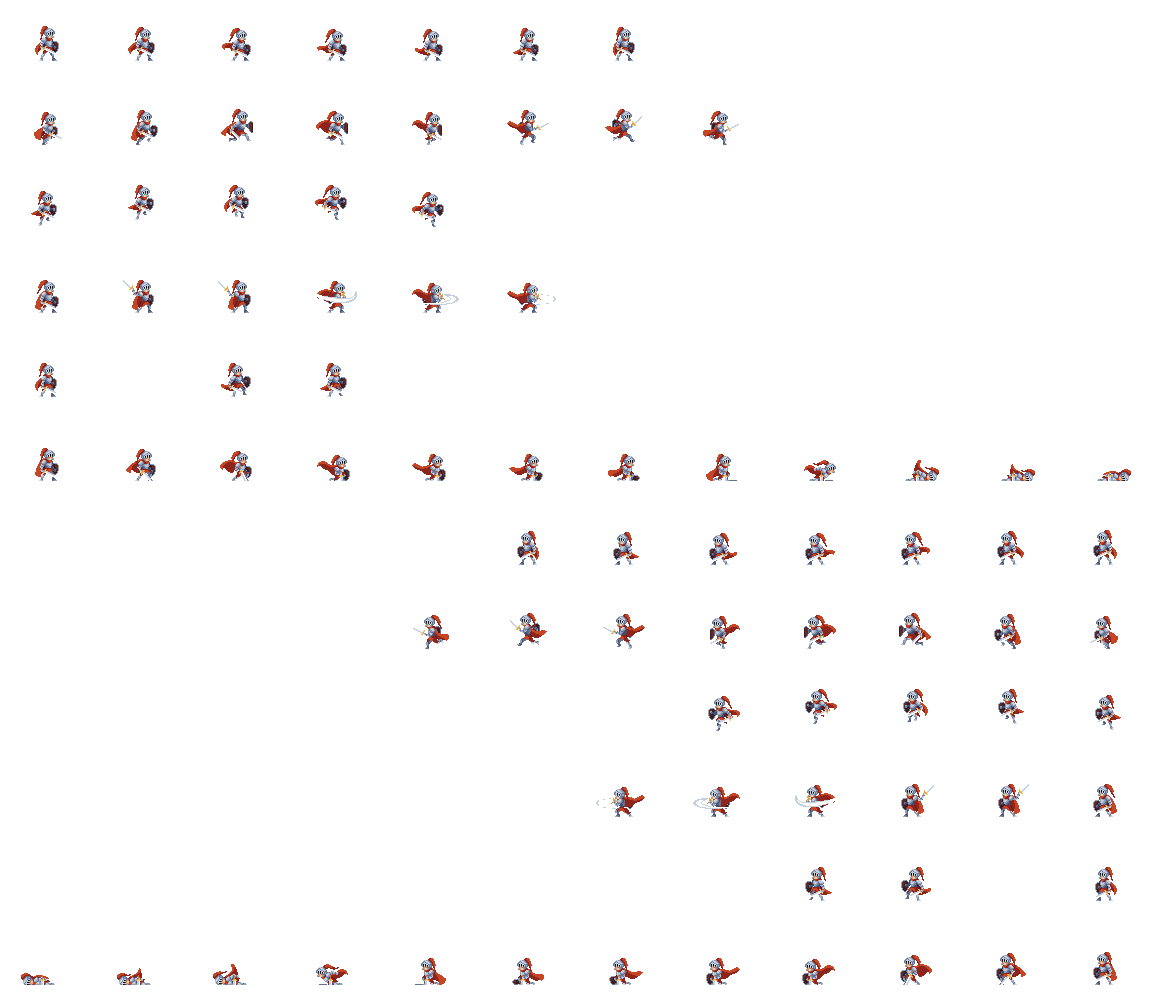
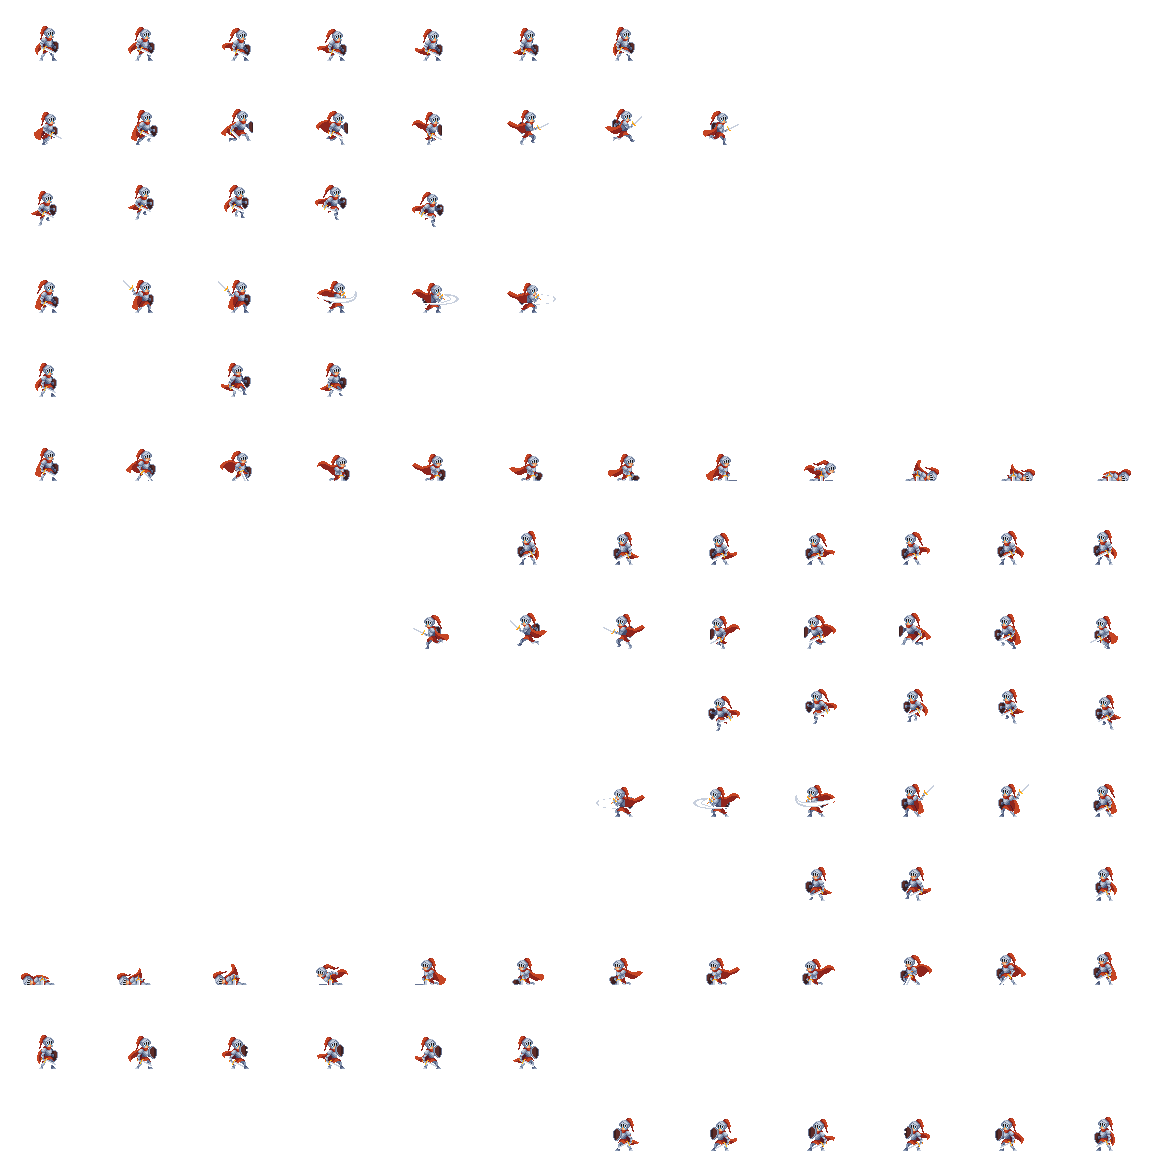
Knight guard

diff --git a/public/scripts/knight.js b/public/scripts/knight.js
@@ -14,7 +14,9 @@ const KnightPlayer = function(ctx, x, y, gameArea, obstacles, enemies) {
         hurtRight:   { x: 0,    y: 336,   width: 96, height: 84, count: 4,  timing: 100, loop: false },
         hurtLeft:    { x: 1056, y: 840,   width: -96, height: 84, count: 4,  timing: 100, loop: false },
         deathRight:  { x: 0,    y: 420,   width: 96, height: 84, count: 12, timing: 200, loop: false },
-        deathLeft:   { x: 1056, y: 924,   width: -96, height: 84, count: 12, timing: 200, loop: false }
+        deathLeft:   { x: 1056, y: 924,   width: -96, height: 84, count: 12, timing: 200, loop: false },
+        guardRight:  { x: 0,    y: 1008,   width: 96, height: 84, count: 5,  timing: 85, loop: true },
+        guardLeft:   { x: 1056, y: 1090,   width: -96, height: 84, count: 5,  timing: 85, loop: true }
     };
 
     const sprite = Sprite(ctx, x, y);
@@ -36,7 +38,7 @@ const KnightPlayer = function(ctx, x, y, gameArea, obstacles, enemies) {
     let speed = 250;
 
     const move = function(dir) {
-        if (recoverTimer == 0) {
+        if (recoverTimer == 0 && guardTimer == 0) {
             direction = dir;
             animationDirection = dir;
         }
@@ -55,6 +57,7 @@ const KnightPlayer = function(ctx, x, y, gameArea, obstacles, enemies) {
 
     const takeDamage = function(damage) {
         if (!alive) return;
+        if (guardTimer > 0) return;
         health -= damage;
         if (health > 0) {
             recoverTimer = 40;
@@ -77,8 +80,13 @@ const KnightPlayer = function(ctx, x, y, gameArea, obstacles, enemies) {
     let enableJump = true;
     let falling = false;
 
+    let guardTimer = 0;
+    let guardCooldownTimer = 0;
+    const GUARD_DURATION = 100;
+    const GUARD_COOLDOWN = 400;
+
     const jump = function() {
-        if (standing() && recoverTimer == 0 && enableJump && alive && attackStanceTimer == 0) {
+        if (standing() && recoverTimer == 0 && enableJump && alive && attackStanceTimer == 0 && guardTimer == 0) {
             enableJump = false;
             velocityY = jumpVelocity;
         }
@@ -108,10 +116,10 @@ const KnightPlayer = function(ctx, x, y, gameArea, obstacles, enemies) {
     let damageApplied = false;
 
     const attack = function() {
-        if (recoverTimer == 0 && cooldownTimer == 0 && enableAttack && alive) {
+        if (recoverTimer == 0 && cooldownTimer == 0 && enableAttack && alive && guardTimer == 0 && guardCooldownTimer == 0) {
             enableAttack = false;
             attackStanceTimer = ATTACK_FRAMES;
-            cooldownTimer = ATTACK_FRAMES;   // 冷卻時間等同攻擊動畫長度
+            cooldownTimer = ATTACK_FRAMES;
             damageApplied = false;
             sounds.attack.currentTime = 0;
             sounds.attack.play();
@@ -120,6 +128,14 @@ const KnightPlayer = function(ctx, x, y, gameArea, obstacles, enemies) {
 
     const stopAttack = function() {
         enableAttack = true;
+    };
+
+    const guard = function() {
+        if (recoverTimer == 0 && guardTimer == 0 && guardCooldownTimer == 0 && attackStanceTimer == 0 && alive) {
+            guardTimer = GUARD_DURATION;
+            velocityY = 0;
+            direction = 0;
+        }
     };
 
     const hHalfSize = 25;
@@ -151,7 +167,6 @@ const KnightPlayer = function(ctx, x, y, gameArea, obstacles, enemies) {
 
     let deathPlayed = false;
 
-    // ========== 動畫狀態管理 ==========
     let animationState = "";
     const updateAnimation = function() {
         if (!alive) {
@@ -159,6 +174,15 @@ const KnightPlayer = function(ctx, x, y, gameArea, obstacles, enemies) {
                 const seqName = (animationDirection == 1) ? "deathLeft" : "deathRight";
                 sprite.setSequence(sequences[seqName]);
                 deathPlayed = true;
+                animationState = seqName;
+            }
+            return;
+        }
+
+        if (guardTimer > 0) {
+            const seqName = (animationDirection == 1) ? "guardLeft" : "guardRight";
+            if (animationState !== seqName) {
+                sprite.setSequence(sequences[seqName]);
                 animationState = seqName;
             }
             return;
@@ -182,7 +206,6 @@ const KnightPlayer = function(ctx, x, y, gameArea, obstacles, enemies) {
             sprite.setSequence(sequences[targetState]);
         }
     };
-    // ==================================
 
     const update = function(time) {
         if (!alive) {
@@ -193,7 +216,15 @@ const KnightPlayer = function(ctx, x, y, gameArea, obstacles, enemies) {
 
         let { x, y } = sprite.getXY();
 
-        // 垂直移動
+        if (guardTimer > 0) {
+            guardTimer--;
+            if (guardTimer == 0) {
+                guardCooldownTimer = GUARD_COOLDOWN;
+            }
+            direction = 0;
+        }
+        if (guardCooldownTimer > 0) guardCooldownTimer--;
+
         if (!standing() || velocityY < 0) {
             velocityY += gravity;
             let validLocation = true;
@@ -230,8 +261,7 @@ const KnightPlayer = function(ctx, x, y, gameArea, obstacles, enemies) {
             velocityY = 0;
         }
 
-        // 水平移動
-        if (recoverTimer == 0 && attackStanceTimer == 0) {
+        if (recoverTimer == 0 && attackStanceTimer == 0 && guardTimer == 0) {
             let validLocation = true;
             let hoffset = 0;
             if (direction == 1) {
@@ -265,7 +295,6 @@ const KnightPlayer = function(ctx, x, y, gameArea, obstacles, enemies) {
             recoverTimer--;
         }
 
-        // 落地判定
         if (!standing()) {
             falling = true;
         } else if (falling) {
@@ -276,9 +305,7 @@ const KnightPlayer = function(ctx, x, y, gameArea, obstacles, enemies) {
             falling = false;
         }
 
-        // 攻擊計時器
         if (attackStanceTimer > 0) {
-            // 在動畫播放到一半時觸發傷害（可依需要調整比例）
             if (attackStanceTimer == Math.floor(ATTACK_FRAMES / 2)) {
                 applyMeleeDamage();
             }
@@ -300,6 +327,7 @@ const KnightPlayer = function(ctx, x, y, gameArea, obstacles, enemies) {
         resetJump: resetJump,
         attack: attack,
         stopAttack: stopAttack,
+        guard: guard,
         takeDamage: takeDamage,
         speedUp: function() { speed = 350; },
         slowDown: function() { speed = 250; },

diff --git a/public/scripts/client.js b/public/scripts/client.js
@@ -312,6 +312,9 @@ const Punkman = (function(){
                 case 76:
                     pawn.takeDamage(10);
                     break;
+                case 83:
+                    if (pawn.guard) pawn.guard();
+                    break;
             }
         });
 